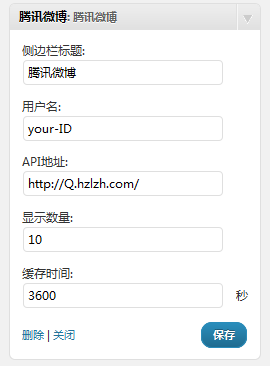
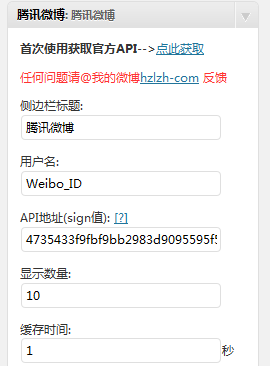
v1.1.0 released. New API used.
git-svn-id: https://plugins.svn.wordpress.org/wordpress-tencent-microblog/trunk@418287 b8457f37-d9ea-0310-8a92-e5e31aec5664

diff --git a/wordpress-tencent-microblog.php b/wordpress-tencent-microblog.php
@@ -2,8 +2,8 @@
 /*
 Plugin Name: Wordpress Tencent Microblog
 Plugin URI: http://zlz.im/wordpress-tencent-microblog/
-Description:显示腾讯微博发言的插件，无需密码，安全可靠。采用了缓存机制，自定义刷新时间，不占用站点加载速度。可以在[外观]--[小工具]中调用，或者在任意位置使用 <code>&lt;?php display_tencent('username=you-ID&number=5'); ?&gt;</code> 调用。
-Version: 1.0.9
+Description: 显示腾讯微博发言的插件，无需密码，安全可靠。采用了缓存机制，自定义刷新时间，不占用站点加载速度。可以在[外观]--[小工具]中调用，或者在任意位置使用 <code>&lt;?php display_tencent('username=you-ID&number=5'); ?&gt;</code> 调用。
+Version: 1.1.0
 Author: hzlzh
 Author URI: http://zlz.im
 
@@ -17,19 +17,19 @@ if ( ! defined( 'WP_PLUGIN_DIR' ) )
 //展示函数
 function display_tencent($args = ''){
 	$default = array(
-		'username'=>'your-ID',
+		'username'=>'Weibo_ID',
 		'number'=>'1',
-		'api'=>'http://q.hzlzh.com/',
+		'api'=>'4735433f9fbf9bb2983d9095595f5c5c36abdd0b',
 		'time'=>'3600');
 	$r = wp_parse_args($args,$default);
 	extract($r);
-	$url = $api.$username;
+	$url = 'http://v.t.qq.com/output/json.php?type=1&name='.$username.'&sign='.$api;
 	if(function_exists("copy")){
 	$e = WP_PLUGIN_DIR.'/wordpress-tencent-microblog/'.$username.'.json';
 	if ( !is_file($e) || (time() - filemtime($e)) > $time|| filesize($e) < 1000){
 	//当缓存不存在或超过 $time 时更新,或者得到文件大小小于1000
 	copy($url, $e);}//拷贝到本地，一般主机都支持这个函数,需要目录的写入权限
-	$jsonObject = file_get_contents($e);
+	$jsonObject = substr(file_get_contents($e),10,-1);
 }else{
 	if(function_exists("file_get_contents")){
 	$jsonObject = file_get_contents($url);
@@ -44,11 +44,10 @@ echo "<div>该主机不支持本插件，由于禁用了copy()或file_get_conten
 		}
 	}
 }
-	$decodedArray = json_decode($jsonObject, true);
-
+$decodedArray =json_decode($jsonObject, true);
 		echo '<ul style="list-style-type:none;">';
-		for($i = 0;$i <$number;$i++){
-			echo '<li><div class="microblog"><a href="http://t.qq.com/'.$username.'" rel="external nofollow" title="来自 腾讯微博" target="_blank"><img class="microblog-ico" style="float:left;padding-right:3px;" alt="腾讯微博" src="'.WP_PLUGIN_URL.'/wordpress-tencent-microblog/txwb.gif" /></a><span class="microblog-content">'.$decodedArray [data][info][$i][origtext].'</span>  <span class="microblog-from" style="font-style:italic;">-'.date("Y/m/d", $decodedArray [data][info][$i][timestamp]).' 来自 '.$decodedArray [data][info][$i][from].'-</span></div></li>';
+		for($i = 0;$i<count($decodedArray['data']);$i++){
+			echo '<li><div class="microblog"><a href="http://t.qq.com/'.$username.'" rel="external nofollow" title="来自 腾讯微博" target="_blank"><img class="microblog-ico" style="float:left;padding-right:3px;" alt="腾讯微博" src="'.WP_PLUGIN_URL.'/wordpress-tencent-microblog/txwb.png" /></a><span class="microblog-content">'.$decodedArray['data'][$i]['content'].'</span>  <span class="microblog-from" style="font-size:smaller;">-'.date("Y/m/d", $decodedArray ['data'][$i]['timestamp']).' 来自 '.$decodedArray ['data'][$i]['fromarea'].'-</span></div></li>';
 		}
 		echo '</ul>';
 }
@@ -66,8 +65,8 @@ class TencentMicroblog extends WP_Widget
 	function form($instance){
 		$instance = wp_parse_args((array)$instance,array(
 		'title'=>'腾讯微博',
-		'username'=>'your-ID',
-		'api'=>'http://q.hzlzh.com/',
+		'username'=>'Weibo_ID',
+		'api'=>'4735433f9fbf9bb2983d9095595f5c5c36abdd0b',
 		'number'=>1,
 		'time'=>'3600'));
 		$title = htmlspecialchars($instance['title']);
@@ -75,9 +74,9 @@ class TencentMicroblog extends WP_Widget
 		$api = htmlspecialchars($instance['api']);
 		$number = htmlspecialchars($instance['number']);
 		$time = htmlspecialchars($instance['time']);
-		echo '<p><b>首次使用需激活API--></b><a target="_ablank" href="http://q.hzlzh.com/q/">点此激活认证</a></p><p style="color:#FF3333;">任何问题请@我的微博<a target="_ablank" href="http://t.qq.com/hzlzh_com">hzlzh_com</a> 反馈</p><p><label for="'.$this->get_field_name('title').'">侧边栏标题:<input style="width:200px;" id="'.$this->get_field_id('title').'" name="'.$this->get_field_name('title').'" type="text" value="'.$title.'" /></label></p>
+		echo '<p><b>首次使用获取官方API--></b><a target="_ablank" href="http://open.t.qq.com/resource.php?i=3,3">点此获取</a></p><p style="color:#FF3333;">任何问题请@我的微博<a target="_ablank" href="http://t.qq.com/hzlzh-com">hzlzh-com</a> 反馈</p><p><label for="'.$this->get_field_name('title').'">侧边栏标题:<input style="width:200px;" id="'.$this->get_field_id('title').'" name="'.$this->get_field_name('title').'" type="text" value="'.$title.'" /></label></p>
 		<p><label for="'.$this->get_field_name('username').'">用户名:<input style="width:200px;" id="'.$this->get_field_id('username').'" name="'.$this->get_field_name('username').'" type="text" value="'.$username.'" /></label></p>
-		<p><label for="'.$this->get_field_name('api').'">API地址:<input style="width:200px;" id="'.$this->get_field_id('api').'" name="'.$this->get_field_name('api').'" type="text" value="'.$api.'" /></label></p>
+		<p><label for="'.$this->get_field_name('api').'">API地址(sign值): <a target="_ablank" href="http://zlz.im/wordpress-tencent-microblog/">[?]</a><input style="width:200px;" id="'.$this->get_field_id('api').'" name="'.$this->get_field_name('api').'" type="text" value="'.$api.'" /></label></p>
 		<p><label for="'.$this->get_field_name('number').'">显示数量:<input style="width:200px" id="'.$this->get_field_id('number').'" name="'.$this->get_field_name('number').'" type="text" value="'.$number.'" /></label></p>
 		<p><label for="'.$this->get_field_name('time').'">缓存时间:<input style="width:200px" id="'.$this->get_field_id('time').'" name="'.$this->get_field_name('time').'" type="text" value="'.$time.'" />秒</label></p>';
 	}
@@ -97,9 +96,9 @@ class TencentMicroblog extends WP_Widget
 	function widget($args,$instance){
 		extract($args);
 		$title = apply_filters('widget_title',empty($instance['title']) ? '&nbsp;' : $instance['title']);
-		$username = empty($instance['username']) ? 'your-ID' : $instance['username'];
+		$username = empty($instance['username']) ? 'Weibo_ID' : $instance['username'];
 		$number = empty($instance['number']) ? 1 : $instance['number'];
-		$api = empty($instance['api']) ? 'http://q.hzlzh.com/' : $instance['api'];
+		$api = empty($instance['api']) ? '4735433f9fbf9bb2983d9095595f5c5c36abdd0b' : $instance['api'];
 		$time = empty($instance['time']) ? 3600 : $instance['time'];
 		
 		echo $before_widget;
